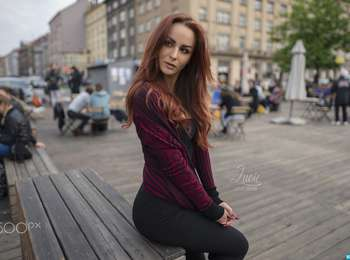
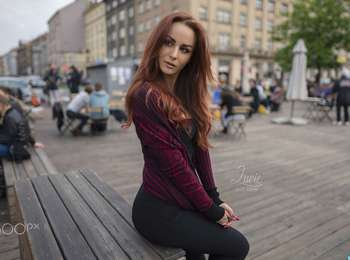
Added optimization only and prevent exceptions

diff --git a/main.py b/main.py
@@ -22,42 +22,48 @@ def parse_folders(folder):
         if file_extension in valid_ext:
             image = Image.open(path)
             width, height = image.size
-
-            if width < min_width:
-                # If image width is less than min_width, remove!
-                os.remove(path)
-                removed += 1
-            else:
-                # Check if is landscape
-                if width > height:
-                    # Check if image width is bigger than our width
-                    if width >= img_size[0]:
-                        # Crop Image
-                        original = ImageOps.fit(image, img_size, method=Image.ANTIALIAS, bleed=0.0, centering=(0.5, 0.5))
-                        # Optimize image, set quality to 60% and save
-                        original.save(filename + file_extension, optimize=True, quality=quality)
-                    else:
-                        # Just optimize, set quality to 60% and save
-                        image.save(filename + file_extension, optimize=True, quality=quality)
-                # If image is in portrait mode
-                elif height > width:
-                    if height >= img_size[1]:
-                        original = ImageOps.fit(image, tuple(reversed(img_size)), method=Image.ANTIALIAS, bleed=0.0, centering=(0.5, 0.5))
-                        original.save(filename + file_extension, optimize=True, quality=quality)
-                    else:
-                        image.save(filename + file_extension, optimize=True, quality=quality)
-                # If image is square
+            try:
+                if width < min_width:
+                    # If image width is less than min_width, remove!
+                    os.remove(path)
+                    removed += 1
                 else:
-                    image.save(filename + file_extension, optimize=True, quality=quality)
-                # Count processed images
-                processed += 1
+                    # Check if is landscape
+                    if width > height:
+                        # Check if image width is bigger than our width
+                        if width >= img_size[0]:
+                            # Crop Image
+                            original = ImageOps.fit(image, img_size, method=Image.ANTIALIAS, bleed=0.0, centering=(0.5, 0.5))
+                            # Optimize image, set quality to 60% and save
+                            original.save(filename + file_extension, optimize=True, quality=quality)
+                        else:
+                            # Just optimize, set quality to 60% and save
+                            image.save(filename + file_extension, optimize=True, quality=quality)
+                    # If image is in portrait mode
+                    elif height > width:
+                        if height >= img_size[1]:
+                            original = ImageOps.fit(image, tuple(reversed(img_size)), method=Image.ANTIALIAS, bleed=0.0, centering=(0.5, 0.5))
+                            original.save(filename + file_extension, optimize=True, quality=quality)
+                        else:
+                            image.save(filename + file_extension, optimize=True, quality=quality)
+                    # If image is square
+                    else:
+                        image.save(filename + file_extension, optimize=True, quality=quality)
+                    # Count processed images
+                    processed += 1
 
-                # Create thumbnail
-                thumb = ImageOps.fit(image, thumbnail, method=Image.ANTIALIAS, bleed=0.0, centering=(0.5, 0.5))
-                thumb.save(filename + "-thumbnail" + file_extension, optimize=True, quality=quality)
+                    # Create thumbnail
+                    thumb = ImageOps.fit(image, thumbnail, method=Image.ANTIALIAS, bleed=0.0, centering=(0.5, 0.5))
+                    thumb.save(filename + "-thumbnail" + file_extension, optimize=True, quality=quality)
+                # Count total images
+                total += 1
+            except Exception as e:
+                print("\n******* EXCEPTION *******")
+                print("*")
+                print("* " + str(e))
+                print("*")
+                print("******* EXCEPTION *******\n")
 
-            # Count total images
-            total += 1
             if total % log_nr == 0:
                 print(str(datetime.datetime.now()) + ": ===== Processed " + str(total) + " images ...")
         if os.path.isdir(path):

diff --git a/optimize.py b/optimize.py
@@ -1,0 +1,46 @@
+import os
+from PIL import Image, ImageOps
+import datetime
+
+location = "for_optimization/"  # Folder to parse
+valid_ext = [".jpg", "jpeg", ".png"]  # Allowed extensions
+processed = 0  # Counters
+quality = 60  # Quality of saved images
+log_nr = 5  # Every X files, Log total processed
+start_time = datetime.datetime.now()  # Start datetime
+
+
+def parse_folders(folder):
+    global processed, log_nr, quality
+
+    for file in os.listdir(folder):
+        path = os.path.join(folder, file)
+        filename, file_extension = os.path.splitext(path)
+        if file_extension in valid_ext:
+            try:
+                image = Image.open(path)
+                image.save(filename + file_extension, optimize=True, quality=quality)
+            except Exception as e:
+                print("\n******* EXCEPTION *******")
+                print("*")
+                print("* " + str(e))
+                print("*")
+                print("******* EXCEPTION *******\n")
+
+            processed += 1
+            if processed % log_nr == 0:
+                print(str(datetime.datetime.now()) + ": ===== Processed " + str(processed) + " images ...")
+        if os.path.isdir(path):
+            # If is folder instead of file, parse this folder
+            parse_folders(path)
+
+
+print(str(datetime.datetime.now()) + ": Parsing folder \"" + location + "\"...")
+parse_folders(location)
+print(str(datetime.datetime.now()) + ": Done...")
+print("Total processed: " + str(processed) + " images.")
+elapsed_seconds = (datetime.datetime.now() - start_time).total_seconds()
+print("Elapsed time: " +
+      str("%.3f" % elapsed_seconds) + " seconds. Aprox. " +
+      str(int(elapsed_seconds / 60)) + " minutes.")
+print("Bye bye...")

diff --git a/README.md b/README.md
@@ -24,6 +24,7 @@ The easiest way was to create this python script.
     min_width = 500  # Min with for image to process
     log_nr = 5  # Every X files, Log total processed
     ```
+    or ... For optimization only, edit `optimize.py`
 3. Run script:
 
 ```
